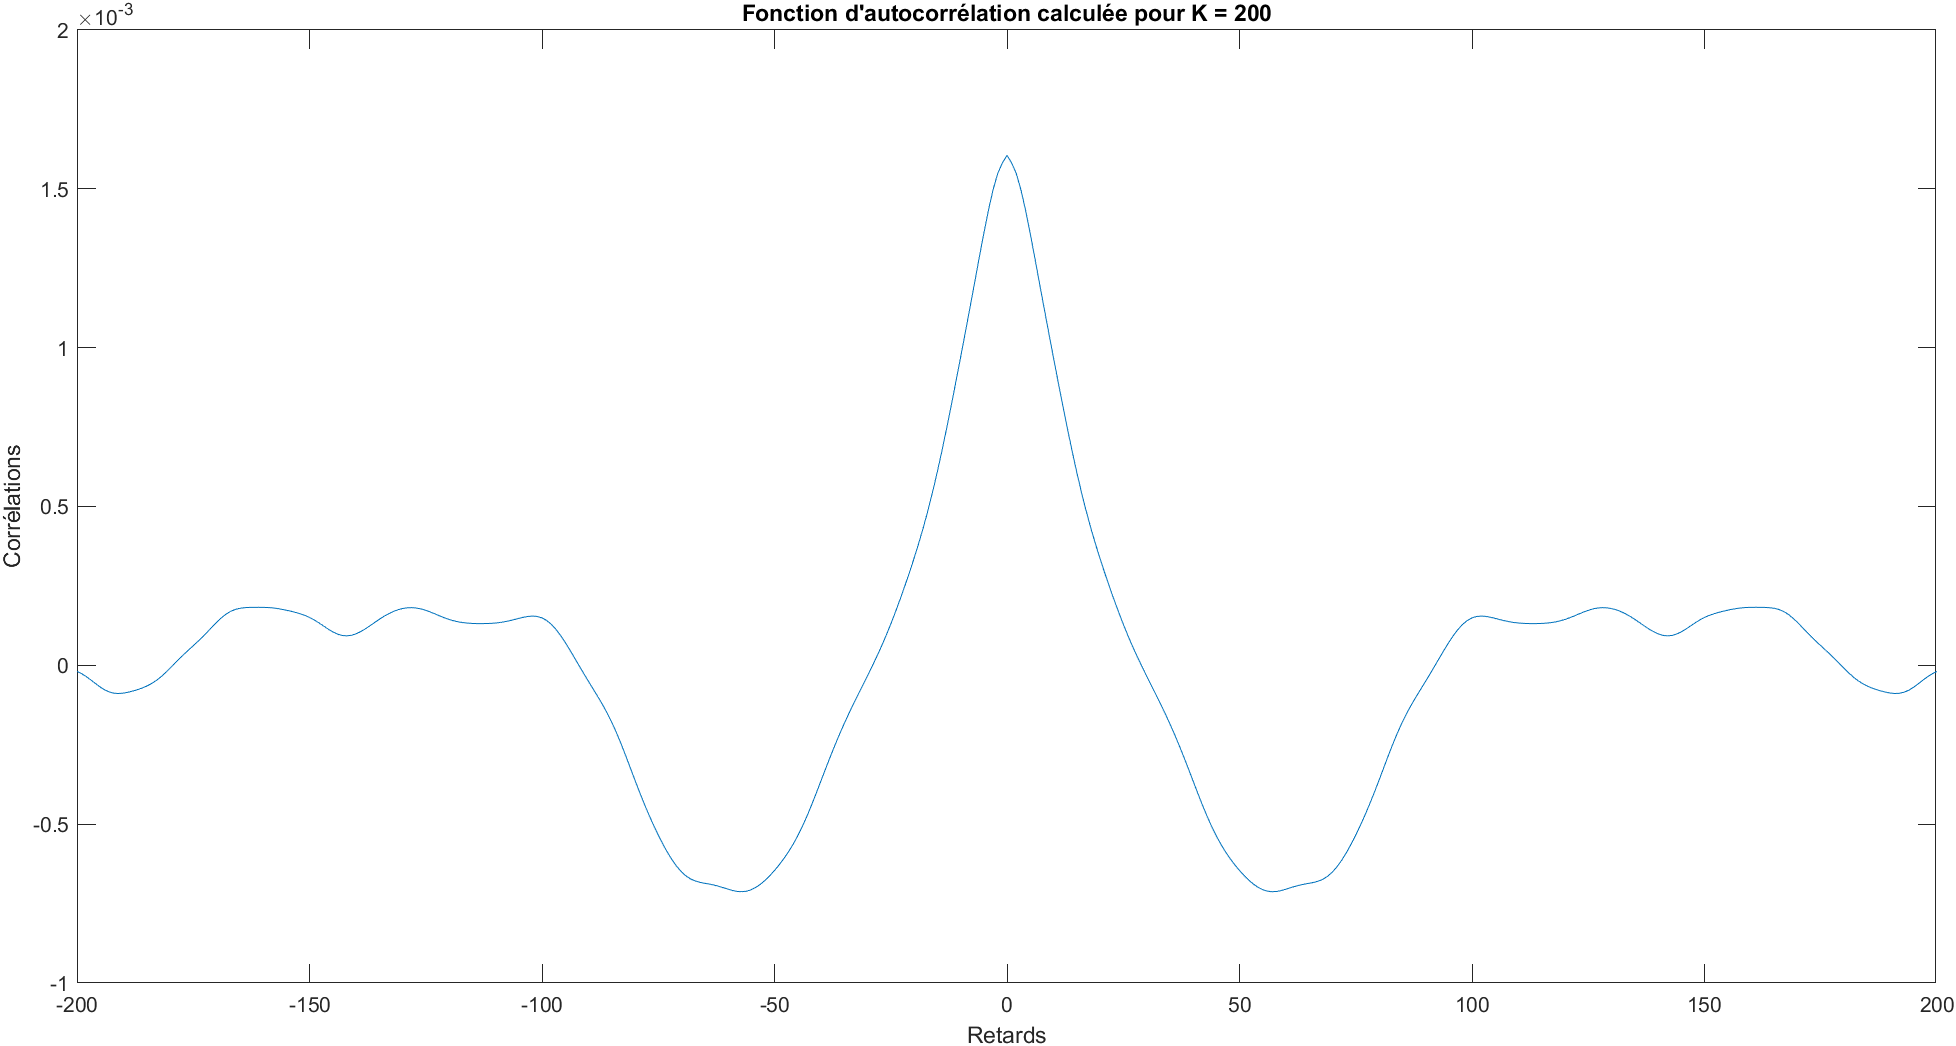
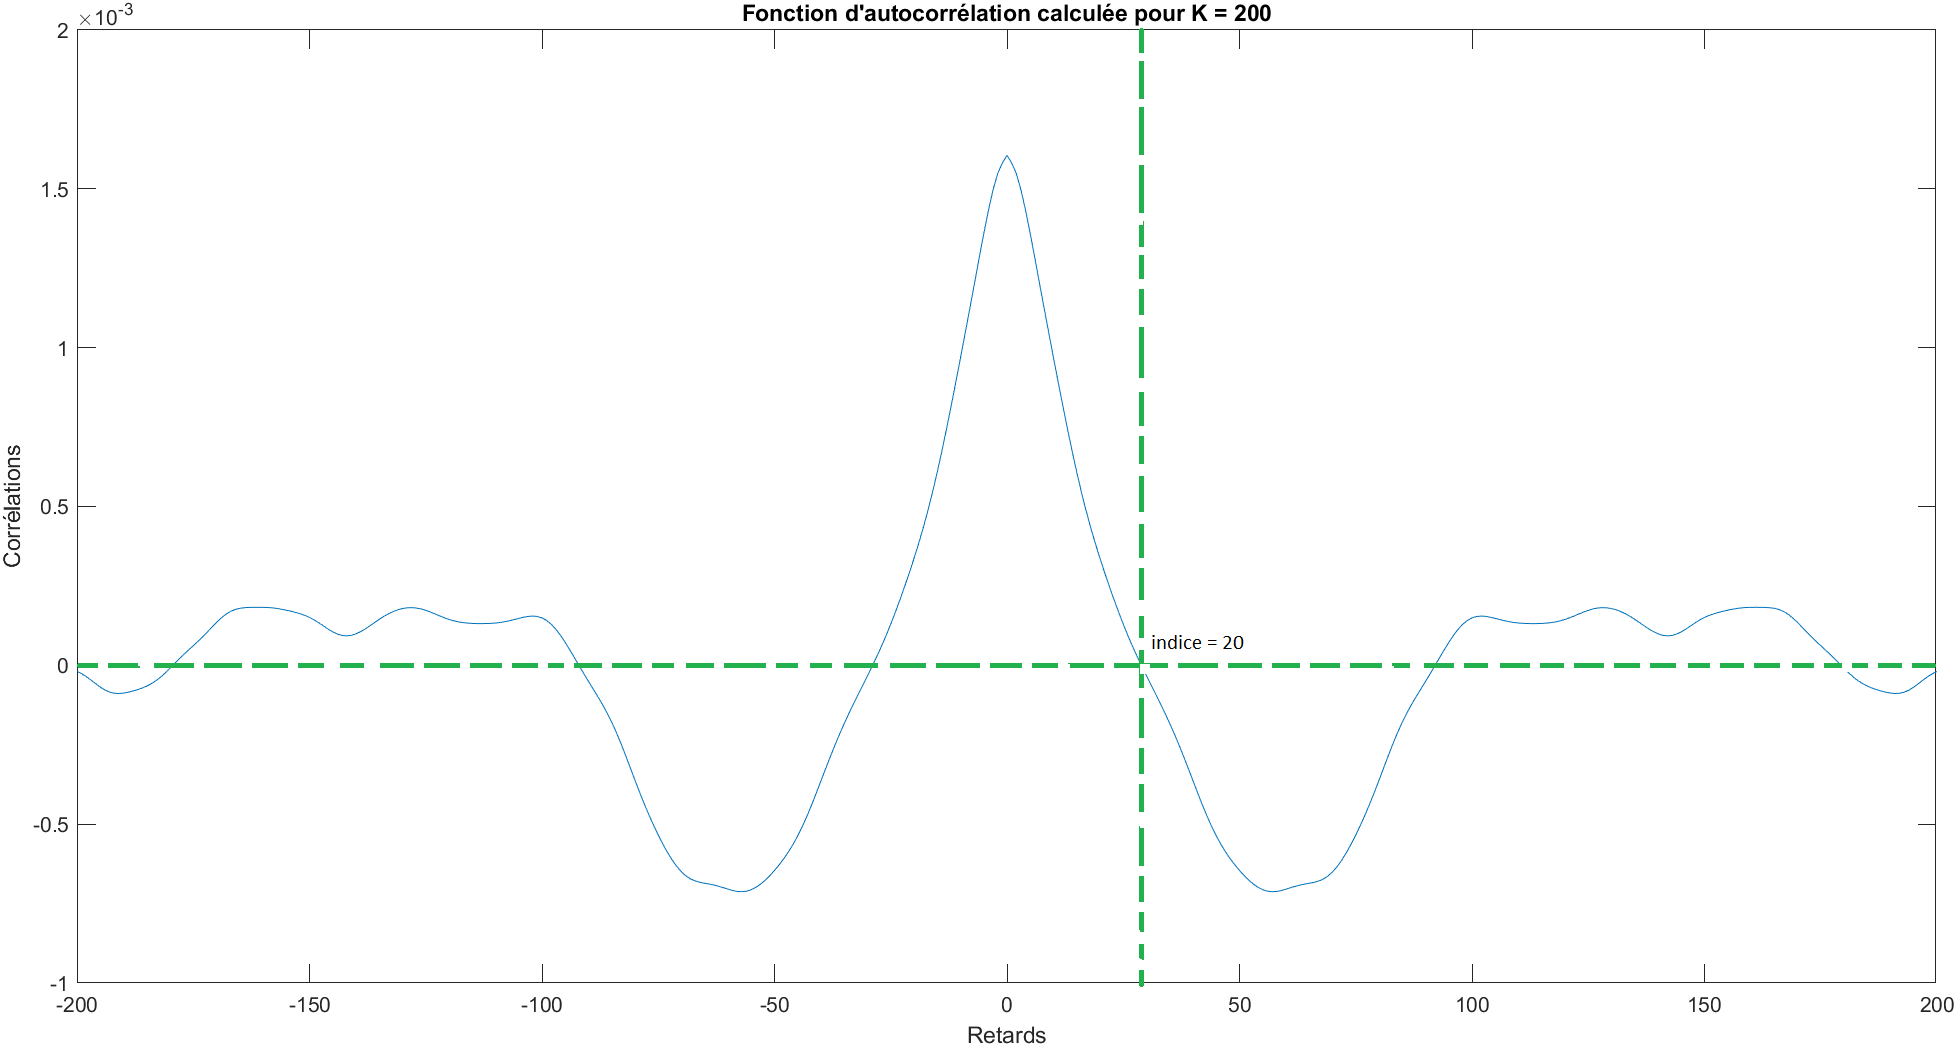
A toi de jouer BG

diff --git a/TP4/TP-TSA4-Enonce-CR.tex b/TP4/TP-TSA4-Enonce-CR.tex
@@ -140,7 +140,7 @@ sound(s,Fs) ;\\[2mm]
 }
 \begin{figure}[!h] 	
     \centering
-    \includegraphics[width=0.7\textwidth]{images/signalorigine.png}
+    \includegraphics[width=1\textwidth]{images/signalorigine.png}
     \caption{Signal d'origine bruité}
     \label{fig-binaire}
 \end{figure}
@@ -173,7 +173,7 @@ Le code de cette partie est le suivant :
     s2 = s(indice_temps_60:indice_temps_70);
     
     % Calcul de l'autocorrélation à l'aide de la fonction xcorr (native à MATALB)
-    [R,lags] = xcorr(s,K,'biased');
+    [R,lags] = xcorr(s2,K,'biased');
     
     %Partie affichage (Tronquée pour la lisibilité du rapport) 
 \end{verbatim}
@@ -181,7 +181,7 @@ Le code de cette partie est le suivant :
 Nous obtenons les figure suivante : 
 \begin{figure}[!h] 	
     \centering
-    \includegraphics[width=0.7\textwidth]{images/signaloriginecourt.png}
+    \includegraphics[width=1\textwidth]{images/signaloriginecourt.png}
     \caption{Section du Signal entre 60 et 70 secondes}
     \label{fig-binaire}
 \end{figure}
@@ -190,7 +190,7 @@ Nous pouvons observer que l'on obtient un signal qui dure 10 secondes, l'amplitu
 \clearpage
 \begin{figure}[!h]
     \centering
-    \includegraphics[width=0.7\textwidth]{images/autocorrelation.png}
+    \includegraphics[width=1\textwidth]{images/convo.png}
     \caption{Fonction d'auto-corrélation du signal entre 60 et 70s}
     \label{fig-binaire}
 \end{figure}
@@ -199,7 +199,7 @@ Nous pouvons observer sur la figure 3, la corrélation entre les échantillons. 
 A partir de cette fonction, justifier le choix $M \approx 20$ pour l'ordre du modèle $AR(M)$.\\
 \newline
 Graphiquement le $\pm$20ième échantillons correspond au première indice à avoir une amplitude nulle. Ainsi, nous pouvons considérer que l'on en possède un nombre suffisant pour pouvoir récréer le signal. \\
-A noter que plus le nombre d'échantillons est important et meilleurs est la précision d'estimation. Nous aurions pu prendre plus d'échantillons mais cela va augmenter le temps de calcul car cela nécessitera de nombreuse opération dont certaine coûteuse telle qu'une inversions de matrice. \\
+A noter que plus le nombre d'échantillons est important et meilleurs est la précision d'estimation. Nous aurions pu prendre plus d'échantillons mais cela aurais augmenter significativement le temps de calcul car certaine opérations sont coûteuse (Exemple : une inversions de matrice à M éléments). \\
 En conclusion M = 20, est cohérent car nous possédons un nombre suffisant d'indice pour estimer le signal tout en conservant une rapidité de calcul raisonnable on a assez d’échantillons pour prédire le signal. 
 
 \newpage
@@ -252,7 +252,7 @@ Afficher les coefficients  du modèle $AR(M)$ $\{h[k],~k=1,\ldots M\}$ ainsi obt
 
 \begin{figure}[!h]
     \centering
-    \includegraphics[width=0.7\textwidth]{images/hk_solution.png}
+    \includegraphics[width=1\textwidth]{images/hk_solution.png}
     \caption{Coefficients solutions du système d'équations linéaires h[k]}
     \label{fig-binaire}
 \end{figure}
@@ -270,8 +270,8 @@ Reproduisez ci-dessous, le code développé pour effectuer la prédiction et le 
     p = 1;
     s_chapeau = zeros(1,length(s2));
     
-    % Pour tous les éléments de la séquences 
-    for n = indice_temps_60:indice_temps_70
+    % Pour tous les éléments de la séquences supérieur à 20. 
+    for n = indice_temps_60+20:indice_temps_70
         somme = 0;
         % Application de la formule : somme de 1 à M de h[k]*S(n-k)
         for k = 1:M
@@ -294,7 +294,7 @@ Sur la même figure (en {\tt subplot(212)}) afficher la valeur absolue de l'erre
 
 \begin{figure}[!h]
     \centering
-    \includegraphics[width=0.7\textwidth]{images/global.png}
+    \includegraphics[width=1\textwidth]{images/global.png}
     \caption{Prédiction du signal, Signal Original et son erreur quadratique }
     \label{fig-binaire}
 \end{figure}
@@ -302,13 +302,13 @@ Sur la même figure (en {\tt subplot(212)}) afficher la valeur absolue de l'erre
 
 \begin{figure}[!h]
     \centering
-    \includegraphics[width=0.7\textwidth]{images/zoom.png}
+    \includegraphics[width=1\textwidth]{images/zoom.png}
     \caption{Zoom sur l'un des craquements.}
     \label{fig-binaire}
 \end{figure}
 
 Nous constatons à l'aide de la figure 5 que les signaux sont très similaires. Si nous agrandissons l'intervalle (figure 6),  nous pouvons observer un décalage de l'ordre de quelques centièmes de seconde entre les deux signaux.\\ 
-A noter que sur l'erreur quadratique, nous pouvons observer  de nombreux pics d'erreurs. Ainsi, nous pouvons en déduire qu'il persiste du bruit sur le signal.\\
+A noter que sur l'erreur quadratique, nous pouvons observer  de nombreux pics d'erreurs. Avec l'erreur quadratique, nous pouvons observer un nombre de pics supérieurs aux craquement. Ainsi, nous pouvons conclure que cette méthode est peu fiable car il y a un certain nombre de faux positifs sont décelés.\\
 \clearpage
 
 \subsection{Restauration par seuillage}
@@ -338,7 +338,7 @@ Afficher le signal ainsi restauré  superposé au signal original bruité (faire
 
 \begin{figure}[!h]
     \centering
-    \includegraphics[width=0.7\textwidth]{images/signalcraquement.png}
+    \includegraphics[width=1\textwidth]{images/signalcraquement.png}
     \caption{Zoom sur l'un des craquements.}
     \label{fig-binaire}
 \end{figure}
@@ -360,9 +360,10 @@ Programmez cette solution en expliquant bien chaque étape de la procédure.
     % Initialisation des variables 
     p = 1;
     s_chapeau_anticausal = zeros(1,length(s2));
+    s_restaur = s2;
     
-    % Parcours de l'échantillon 
-    for n = indice_temps_60:indice_temps_70
+    % Calcul de la somme anti-causal  
+    for n = indice_temps_60:indice_temps_70-20
         somme_anticausal = 0;*
         % Application de la formule : somme de 1 à M de h[k]*S(n+k)
         for k = 1:M
@@ -374,27 +375,16 @@ Programmez cette solution en expliquant bien chaque étape de la procédure.
         p = p+1;
     end
     
-    % Calcul de l'erreur quadratique anti-causale
+    % Calcul de l'erreur quadratique anti-causal
     erreur_quad_anticausal = s_chapeau_anticausal-s2';
     
-    erreur_quad_c_antic = erreur_quad.*erreur_quad_anticausal;
-    s_chapeau_c_antic = erreur_quad_c_antic + s2';
+    % Parcours des deux listes pour trouver les indices des craquements 
+    inter = intersect(crak,crak_antic);
     
-    % Seuillage avec les prédictions causale/anticausale
-    seuil2 = 10e-4;
-    
-    % Parcours de la nouvelle erreur quadratique 
-    crak_c_antic = find(abs(erreur_quad_c_antic)>=seuil2);
-    
-    % Parcours du signal d'estimation
-    for k = 1:1:length(crak_c_antic)
-        % Remplacement des erreurs par la moyenne des signaux estimés causaux et anti-causeaux  
-        s_chapeau_c_antic(crak_c_antic(k)) = (s_chapeau(crak_c_antic(k))+s_chapeau_anticausal(crak_c_antic(k)))/2;
+    % Parcours du signal et au besoin, on reconstruie à l'aide de S causal et anti_causal 
+    for k = 1:length(inter)
+        s_restaur(inter(k)) = (s_chapeau(inter(k)) + s_chapeau_anticausal(inter(k)))/2;
     end
-    
-    
-    % Calcul de l'erreur quadratique
-    erreur_quad_c_antic2 = s_chapeau_c_antic - s2';
     
     % Partie affichage ---
 \end{verbatim}
@@ -403,7 +393,7 @@ Affichez le résultat de la restauration ainsi obtenue.
 
 \begin{figure}[!h]
     \centering
-    \includegraphics[width=0.7\textwidth]{images/partie6_signal.png}
+    \includegraphics[width=1\textwidth]{images/partie6_signal.png}
     \caption{Signal reconstitué}
     \label{fig-binaire}
 \end{figure}
@@ -417,7 +407,11 @@ Affichez le résultat de la restauration ainsi obtenue.
 
 Ecoutez le signal restauré. Concluez.
 
-Nous avons pu modifier le signal 
+Pour cette dernière partie, notre méthodologie peut être décomposée en 5 étapes. 1ère partie, nous avons calculé la fonction anti-causal pour $M=20$, ensuite nous calculons la nouvelle erreur quadratique. Dans un troisième temps, nous utilisons le même procédé qu'avec le signal causal pour récupérer les craquement.\\ 
+La dernière étape du processus est de comparer les deux vecteurs d'indices, les éléments communs correspondent au craquements. 
+Pour finir, on modifie ces valeurs en remplacent par la moyenne des deux signaux estimé.\\
+
+Nous avons écouté le signal, et nous constatons qu'il y a une améliorations de qualité car les craquements sont devenus moins présent sans que cela est dégradé la musique.
 \end{document}
 
 
